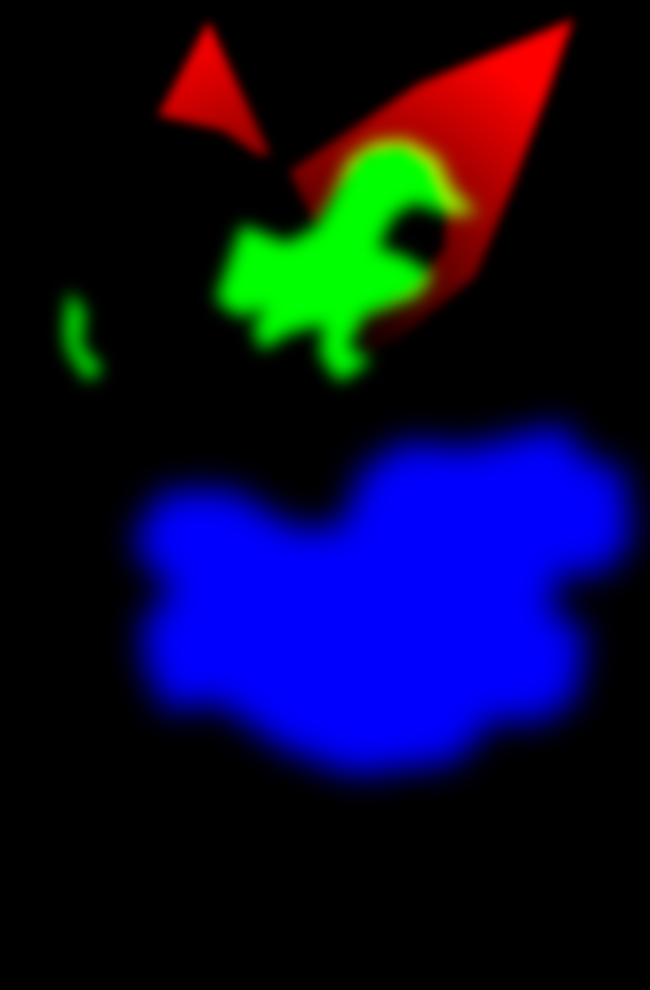
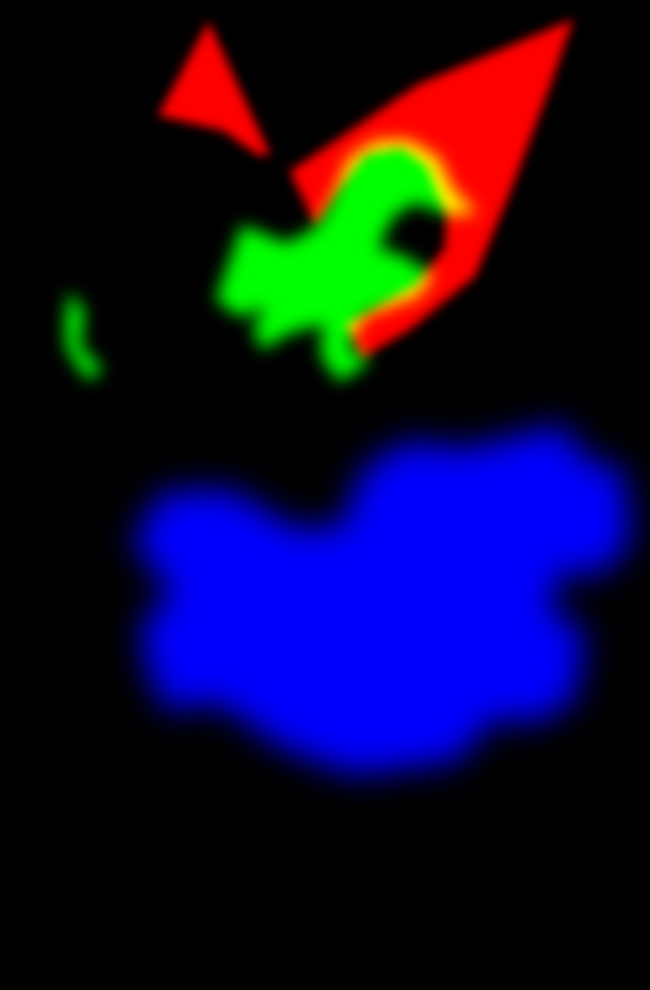
refactor(dynamic_portrait): 重构翅膀动画实现，移除独立翅膀位移逻辑
1.  从着色器和配置中移除旧的独立翅膀位移参数
2.  新增wing_rotation和wing_pivots配置字段预留未来支持
3.  调整商店页面UI显示逻辑，不再加载角色立绘
4.  更新文档说明当前翅膀渲染方案
5.  清理莉莉白预处理脚本中的旧羽化代码

Changed region(s): [[0.2462, 0.0606, 0.8308, 0.3636]]

diff --git a/Tools/Art/prepare_lily_white.py b/Tools/Art/prepare_lily_white.py
@@ -65,11 +65,6 @@ def build_assets(source_directory, output_directory):
          (280, 746), (231, 710), (210, 701), (167, 711), (145, 663),
          (143, 620), (173, 591), (147, 562), (133, 540)],
     ], blur=16)
-    for vertical in range(CANVAS_SIZE[1]):
-        for horizontal in range(CANVAS_SIZE[0]):
-            distance = ((horizontal - 316) ** 2 + (vertical - 353) ** 2) ** 0.5
-            strength = min(1.0, max(0.0, (distance - 30) / 310))
-            wings.putpixel((horizontal, vertical), round(wings.getpixel((horizontal, vertical)) * strength))
     motion = Image.merge("RGB", (wings, hair, skirt))
 
     eyes = region_mask([

diff --git a/Doc/features/dynamic_portraits.md b/Doc/features/dynamic_portraits.md
@@ -4,9 +4,9 @@
 
 ## 实现边界
 
-`UI/Components/DynamicPortrait.gd` 使用细分网格、RGB 运动权重与独立眼睑补片，实现呼吸、轻摆、翅膀/发梢/裙摆运动和眨眼。它是保留原画的轻量 2D 动画，**不是 Live2D Cubism 模型**，不依赖 Cubism SDK，也不包含自动骨骼绑定、任意视角转头或口型同步。
+`UI/Components/DynamicPortrait.gd` 使用细分网格、RGB 运动权重与独立眼睑补片，实现呼吸、轻摆、发梢/裙摆运动和眨眼。翅膀不进行独立局部变形，只随整张立绘整体移动，以避免边缘顶点和中心区域不同步造成的撕裂。它是保留原画的轻量 2D 动画，**不是 Live2D Cubism 模型**，不依赖 Cubism SDK，也不包含自动骨骼绑定、任意视角转头或口型同步。
 
-人物选择继续使用 `CharaView` 与 `[Chara] chara_id`。新增内置莉莉白不覆盖用户当前选择；在人物页选择后，Album/Store 的主界面人物和 ScoreView 会使用该角色。
+人物选择继续使用 `CharaView` 与 `[Chara] chara_id`。新增内置莉莉白不覆盖用户当前选择；在人物页选择后，Album、Song、SortedMidi 的主界面人物和 ScoreView 会使用该角色。
 
 ## 兼容原有资源协议
 
@@ -22,7 +22,7 @@
 
 | 素材 | 规格 |
 | --- | --- |
-| 运动权重图 | 与基础图等尺寸、同坐标的 RGB 图片。黑色不施加局部位移，红通道对应翅膀，绿通道对应发梢，蓝通道对应裙摆；白色表示三个通道均有权重。使用渐变边缘，不要把它作为可见图层或添加透明遮罩。 |
+| 运动权重图 | 与基础图等尺寸、同坐标的 RGB 图片。黑色不施加局部位移，红通道保留作构图标记但当前不驱动独立翅膀变形，绿通道对应发梢，蓝通道对应裙摆；不要把权重图作为可见图层或添加透明遮罩。 |
 | 眼睑补片 | 与基础图等尺寸、同坐标的 RGBA 图片，仅闭眼所需区域不透明；仅用于明确兼容的表情，避免闭眼时覆盖不匹配的眉毛、脸红或眼泪。 |
 
 以下字段放在 `chara.json` 根对象的 `motion` 中；图片路径相对于当前人物目录，禁止绝对路径和 `..`：
@@ -35,6 +35,8 @@
   "breath": 2.2,
   "sway": 2.5,
   "wing": 14.0,
+  "wing_rotation": 4.5,
+  "wing_pivots": [[0.47, 0.23], [0.36, 0.16]],
   "hair": 4.0,
   "skirt": 5.0,
   "speed": 1.0,
@@ -53,14 +55,15 @@
 | `head_pivot` | 原图 UV 坐标，默认 `[0.28, 0.4]`；x 限于 0..1，y 限于 0.05..0.95。新人物需按头部位置调整。 |
 | `breath` | 原图像素，范围 0..12。 |
 | `sway` | 头部轻摆角度，范围 0..15 度。 |
-| `wing` / `hair` / `skirt` | 原图像素，分别限制在 0..30 / 0..20 / 0..20。 |
+| `wing` / `wing_rotation` / `wing_pivots` | 保留在资源协议中供后续无撕裂的独立翅膀渲染器使用；当前渲染器不对翅膀做局部变形。 |
+| `hair` / `skirt` | 原图像素，分别限制在 0..20 / 0..20。 |
 | `float` | 内层整体浮动，原图像素，范围 0..20。 |
 | `speed` | 速度倍率，范围 0.2..3；基础循环周期为 `5 / speed` 秒。 |
 | `blink.interval` | 随机等待区间，单位秒，各值 1..30，最大值不小于最小值。 |
 | `blink.duration` | 一次闭合、保持、睁开的总时长，单位秒，范围 0.08..0.6。 |
 | `blink.emotions` | 可使用该眼睑补片的整数表情编号；空数组不眨眼。不要包含超出实际素材的编号。 |
 
-数值需要 JSON 数字而不是字符串。运动采用 26 × 40 格网格；RGB 分区共用基础轮廓，不能露出原图中不存在的遮挡后区域。不同构图的角色可重做权重和头部支点；任意独立图层、额外运动通道或骨骼属于后续渲染器扩展，不能仅通过新增未支持的 JSON 键实现。
+数值需要 JSON 数字而不是字符串。主体运动采用 26 × 40 格网格；翅膀使用同尺寸独立图层并整片平移，因此不会因边缘和中心落在不同权重顶点而变形。不同构图的角色可重做权重和头部支点；任意额外运动通道或骨骼属于后续渲染器扩展，不能仅通过新增未支持的 JSON 键实现。
 
 ## 按成绩配置反应
 
@@ -110,7 +113,7 @@ portrait.set_active(true)
 
 - 外层 `TextureButton` / `TextureRect` 保留布局、主界面命中检测和页面入退场；设置其 `self_modulate.a = 0` 隐藏自身绘图，不要设置 `modulate.a = 0` 隐藏动态子层。
 - 内层组件的所有 Tween 使用 `AniMGR.create_managed_tween` 和实例唯一 ID；宿主不再叠加旧的人物浮动循环。
-- 主界面退场仅移出屏幕，不一定 `hide()`，所以 `CharaInteract` 按 UIState 显式暂停。选角详情和 ScoreView 在入场完成后激活，离开、切角、隐藏和释放时停止。
+- 主界面人物仅在 Album、Song、SortedMidi 页面显示；Store 页面不显示人物。退场仅移出屏幕，不一定 `hide()`，所以 `CharaInteract` 按 UIState 显式暂停。选角详情和 ScoreView 在入场完成后激活，离开、切角、隐藏和释放时停止。
 - ScoreView 使用最终评级快照，异步入场通过 generation 检查取消过期协程，不在延时回调中重新查询全局分数。
 - `message_top_ratio` 默认 0.84；ScoreView 设为 0.43，给下方成绩面板让出空间。布局变化后应重新做视觉检查。
 - 人物扫描由 `FileSystemManager.resources_ready` 完成；主初始化还可等待 `EvtBus.data_loaded_complete`。不要在 `_ready()` 假设人物资源已就绪。
@@ -122,7 +125,7 @@ portrait.set_active(true)
 3. 根据新构图制作等尺寸的权重与眼睑 PNG，调整 `head_pivot` 和动作幅度；配置真实存在的表情编号。
 4. 添加 `motion.version = 1`、完整 `rating` 和可选 `score_reactions`；同类效果不需要修改主界面或 ScoreView，也不应按角色 ID 写分支。
 5. Godot 导入资源后重新启动或等待人物扫描完成，从人物选择页启用；保留现有选择配置，不默认替用户换角。
-6. 验证表情缓存首次/命中、损坏动态资源回退、多实例材质独立、切角和快速进退，以及新旧人物在 Album、Store、详情、ScoreView 的表现。
+6. 验证表情缓存首次/命中、损坏动态资源回退、多实例材质独立、切角和快速进退，以及新旧人物在 Album、Song、SortedMidi、详情、ScoreView 的表现；确认 Store 页面不显示人物。
 
 莉莉白的可重跑加工工具为 `Tools/Art/prepare_lily_white.py`，依赖 Pillow。传入用户提供的源目录即可重建四张 PNG，**不修改源图，也不覆盖手工维护的 `chara.json`**。其闭眼遮罩和运动分区仅适用于本套莉莉白构图，不是通用自动拆图工具。
 
@@ -130,4 +133,4 @@ portrait.set_active(true)
 
 2026-09-07 在本机 Godot 4.7.1 Mono 下完成 125 项 headless 协议/缓存/生命周期检查和 25 项真实 GPU 页面检查，并通过 300 帧游戏启动验证。临时回归脚本、日志及截图位于 `temp/lily_*`，按项目规范不入库。
 
-真实页面检查包含眨眼、Album、Store、选角预览、五档成绩反应、连续进退与旧天子兼容。Store 的后端在本次环境不可达，因此仅核验离线布局；未替代在线商品交互和 Android/iOS 真机性能验证。退出时已有的 `CoverLoader.gd` 线程清理警告不属于动态立绘改动。
+真实页面检查包含眨眼、Album、选角预览、五档成绩反应、连续进退与旧天子兼容；Store 页面仅确认不显示人物。Store 的后端在本次环境不可达，未替代在线商品交互和 Android/iOS 真机性能验证。退出时已有的 `CoverLoader.gd` 线程清理警告不属于动态立绘改动。
